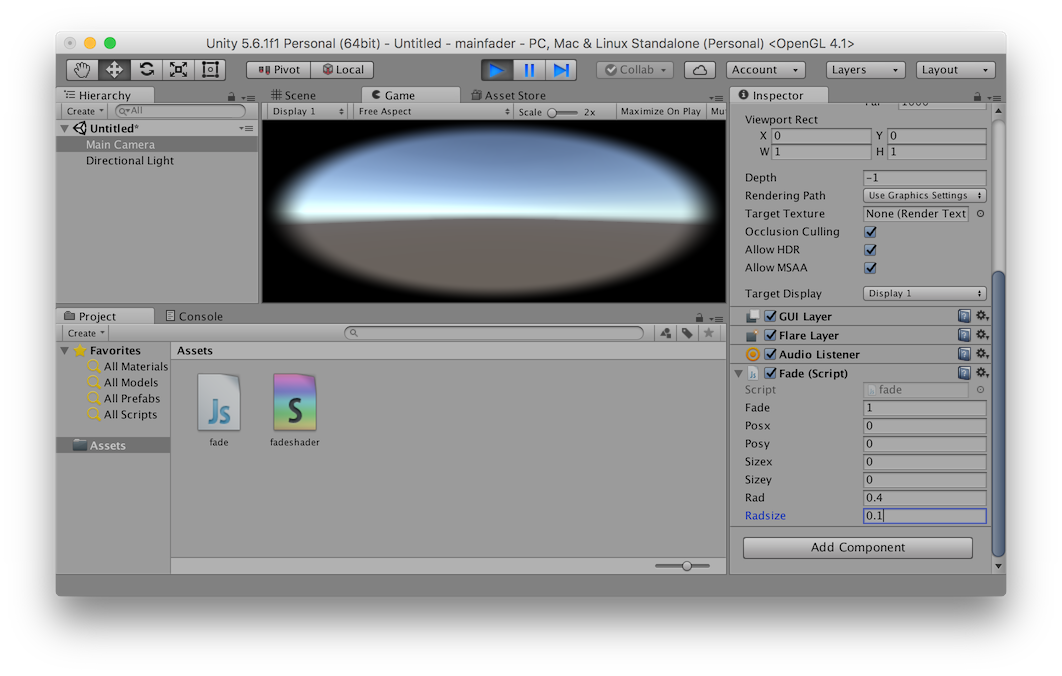
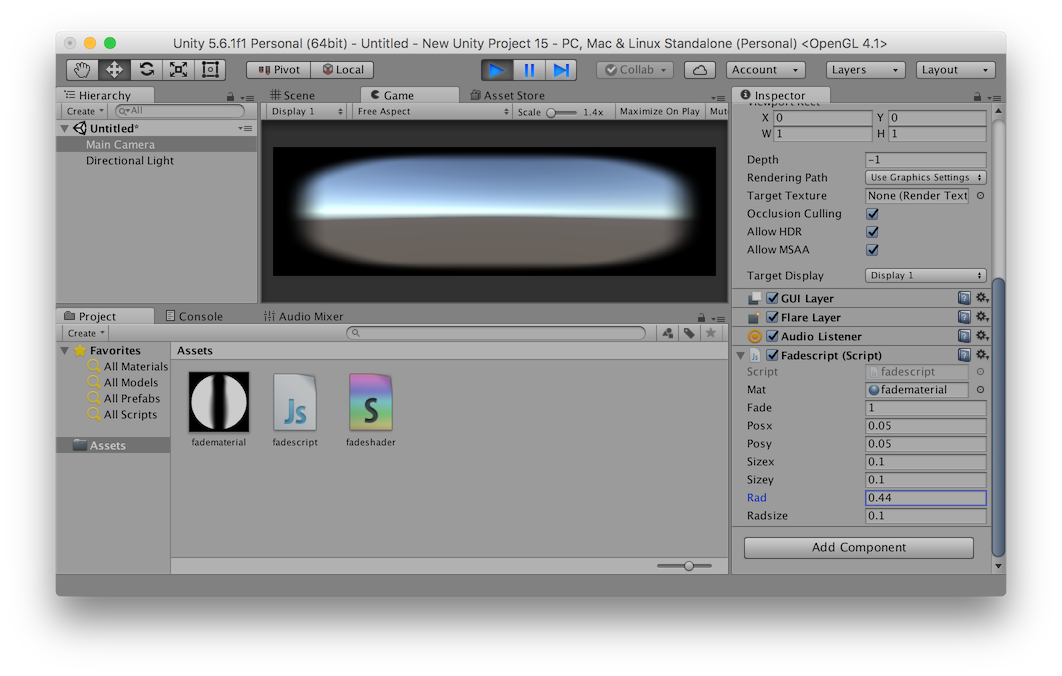
fix for fader shader not working in build app

diff --git a/udk170713/README.md b/udk170713/README.md
@@ -13,7 +13,7 @@ here is a useful shader to have installed on the main camera. it can smooth your
 ```javascript
 #pragma strict
 
-private var mat: Material;
+public var mat: Material;
 public var fade: float = 1.0;
 public var posx: float = 0.05;
 public var posy: float = 0.05;
@@ -22,9 +22,6 @@ public var sizey: float = 0.1;
 public var rad: float = 0.707;
 public var radsize: float = 0.1;
 
-function Start() {
-    mat= new Material(Shader.Find("MyShaders/fadeshader"));  //should match name at the top in the .shader file
-}
 function OnRenderImage(src: RenderTexture, dest: RenderTexture) {
     mat.SetFloat("_Fade", fade);
     mat.SetFloat("_PosX", posx);
@@ -91,6 +88,12 @@ Shader "MyShaders/fadeshader" {
     }
 }
 ```
+
+* select Assets / Create / Material
+* optionally give it a name (here 'fadematerial')
+* make sure the Shader in inspector is set to 'MyShaders/fadeshader'
+* select the Main Camera and in its inspector drag&drop the fadematerial icon onto the 'Mat' slot
+* run and you should see a rectangular mask
 
 now in the Main Camera inspector you should see some parameters to control. play around with them. 'Fade' works like a main fader. 0.0 is all black and 1.0 is normal. you can also go beyond 1.0 to brighten up the graphics. 'Posx' and 'Posy' are 0.0 to 1.0 positions of where the edges start, 'Sizex' and 'Sizey' are how wide or long the edge section should be. 'Rad' determines the radius of the circle (set this to >= 0.707 if not used) and 'Radsize' is again how much of a smooth edge there should be.
 
@@ -245,8 +248,8 @@ SynthDef(\sampler, {|out= 0, pan= 0, buf, mod= 0, amp= 0.5, rate= 1, atk= 0.005,
 )
 
 Pdef(\myseq, Pbind(\instrument, \sampler, \buf, b, \dur, 0.5, \amp, 0.2)).play;
-Pdef(\myseq, Pbind(\instrument, \sampler, \buf, b, \dur, Pseq([Pseq([0.1], 10), Pseries(0.1, -0.002, 40)], inf), \degree, Pseq([0, 5, 4, 3, 2, 1], inf))).play;
-Pdef(\myseq, Pbind(\instrument, \sampler, \buf, b, \mod, Pseq([0, 0, 0.1, 1], inf), \dur, Pseq([Pseq([0.1], 10), Pseries(0.1, -0.002, 40)], inf), \degree, Pseq([0, 5, 4, 3, 2, 1], inf))).play;
+Pdef(\myseq, Pbind(\instrument, \sampler, \buf, b, \dur, Pseq([Pseq([0.1], 10), Pseries(0.1, -0.002, 40)], inf))).play;
+Pdef(\myseq, Pbind(\instrument, \sampler, \buf, b, \mod, Pseq([0, 0, 0.1, 1], inf), \dur, Pseq([Pseq([0.1], 10), Pseries(0.1, -0.002, 40)], inf))).play;
 Pdef(\myseq, Pbind(\instrument, \sampler, \buf, b, \dur, 0.1, \rate, Pwrand([0, 5, 4, 3, 2, 1], [0.05, 0.15, 0.1, 0.5, 0.1, 0.1], inf)+1)).play;
 Pdef(\myseq, Pbind(\instrument, \sampler, \buf, b, \dur, 0.1, \legato, 1.5, \rel, 0.5, \pan, Pwhite(-1.0, 1.0), \rate, Pwrand([0, 5, 4, 3, 2, 1], [0.05, 0.15, 0.1, 0.5, 0.1, 0.1], inf)+1)).play;
 ```
@@ -275,9 +278,9 @@ or one can install additional patterns that are similar to the built in ugens...
 
 ```supercollider
 Quarks.install("UGenPatterns");  //after installing you will need to recompile and start again
-Pdef(\myseq1, Pbind(\instrument, \pong, \dur, PSinOsc(40)*0.1+0.125, \degree, Pseq([0, 5, 4, 3, 2, 1], inf))).play;
-Pdef(\myseq1, Pbind(\instrument, \pong, \dur, PSaw(40)*0.1+0.125, \degree, Pseq([0, 5, 4, 3, 2, 1], inf))).play;
-Pdef(\myseq1, Pbind(\instrument, \pong, \dur, PPulse(10, 0.25)*0.1+0.125, \degree, Pseq([0, 5, 4, 3, 2, 1], inf))).play;
+Pdef(\myseq, Pbind(\instrument, \pong, \dur, PSinOsc(40)*0.1+0.125, \degree, Pseq([0, 5, 4, 3, 2, 1], inf))).play;
+Pdef(\myseq, Pbind(\instrument, \pong, \dur, PSaw(40)*0.1+0.125, \degree, Pseq([0, 5, 4, 3, 2, 1], inf))).play;
+Pdef(\myseq, Pbind(\instrument, \pong, \dur, PPulse(10, 0.25)*0.1+0.125, \degree, Pseq([0, 5, 4, 3, 2, 1], inf))).play;
 ```
 
 projectors
